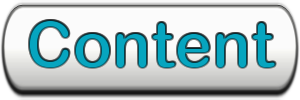
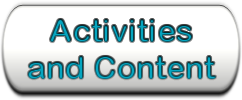
- added a "clear" button for speaking tests - cleaned up the whole "controls" section - I think buttons had stopped moving around! - changed the "Content" button to "Activities and Content" - moved the "Options" button into the Activities area

diff --git a/index.html b/index.html
@@ -291,6 +291,9 @@
 							</div>
 							Phonics
 						</td>
+						<td>
+							<input id="b_options" type="image" src='images/buttons/options_button.png' style="width:100%; display:block; margin-left:auto; margin-right:auto" onmousedown="b_press('b_options2','down','100%')" onmouseup="b_press('b_options2','up','100%')" onmouseout="b_press('b_options2','out','100%')" onclick="optionsDiv('block')"/>
+						</td>
 					</tr>
 				</table>
 
@@ -609,6 +612,7 @@
 						</td>
 					</tr>
 				</table>
+
 				<img id="b_contentOK" onclick="categoryDiv('none')" onmousedown="b_press('b_contentOK','down','7%')" onmouseup="b_press('b_contentOK','up','7%')" onmouseout="b_press('b_contentOK','out','7%')"  src="images/buttons/OK.png" style="width:7%" />
 			</div>
 		</div>
@@ -706,45 +710,48 @@
 		<!-- Controls		 -->
 		<!--_____________ -->
 
-		<table border="0" align="center" style="width:97%;">
-			<tbody valign="baseline">
-				<tr>
-					<td style="width:7.15%;">
-					<input id="b_reset" type="image" src='images/buttons/reset_button.png' style="display:block; width:100%; margin-left:auto; margin-right:auto" onmousedown="b_press('b_reset','down','100%')" onmouseup="b_press('b_reset','up','100%')" onmouseout="b_press('b_reset','out','100%')" onclick="resetScore()"/>
+
+		<table border="0" style="width: 100%">
+			<tbody valign="baseline" align="center">
+				<tr style="height:100px">
+					<td style="width: 0.5%">
+						&nbsp;
 					</td>
-					<td style="width:32.7%;"><img src='images/formatting/1000X597clear_spacer.png' alt="Finished!" style="width:32%" />
+					<td style="width: 7.125%">
+						<img  id="b_reset" src="images/buttons/reset_button.png" style="width:100%; margin-left:auto; margin-right:auto" onmousedown="b_press('b_reset','down','100%')" onmouseup="b_press('b_reset','up','100%')" onmouseout="b_press('b_reset','out','100%')" onclick="resetScore()" />
 					</td>
-					<td style="width:20.3%;">
-
-					<input id="b_start" type="image" src='images/buttons/start_button.png'	style="display:block; width:60.31%; margin-left:auto; margin-right:auto" onmousedown="b_press('b_start','down','60.31%')" onmouseup="b_press('b_start','up','60.31%')" onmouseout="b_press('b_start','out','60.31%')" onclick="activity('start')"/>
-
-
-					<div style="display:block" id="finishedButton">
-						<img src='images/buttons/finished_button.png' alt="Finished!" style="width:100%" />
-					</div>
-
-
-					<div id="yes-no" style=" width:100%; border:gray; display:none; margin-left:auto; margin-right:auto">
-						<input type="image" style="float:left; width:38%;" src='images//buttons/no_button.png' id="noButton"	onmousedown="b_press('noButton','down','38%')" onmouseup="b_press('noButton','up','38%')" onmouseout="b_press('noButton','out','38%')" onclick="activity('no')"/>
-
-						<input id="yesButton" type="image" style="float:right; width:38%" src='images/buttons/yes_button.png' onmousedown="b_press('yesButton','down','38%')" onmouseup="b_press('yesButton','up','38%')" onmouseout="b_press('yesButton','out','38%')" onclick="activity('yes')"/>
-					</div>
-
-
-					<input id="b_replay" type="image" style="width:42.15%; display:none; margin-left:auto; margin-right:auto" src='images/buttons/replay_button.png'	onmousedown="b_press('b_replay','down','42.15%')" onmouseup="b_press('b_replay','up','42.15%')" onmouseout="b_press('b_replay','out','42.15%')" onclick="playVocab()" />
+					<td style="width:19.875%">
+						&nbsp;
 					</td>
-
-					<td> </td>
-
-					<td style="width:14%;">
-					<input id="b_content" type="image" src='images/buttons/content_button.png' style="display:block; width:100%; margin-left:auto; margin-right:auto"	onmousedown="b_press('b_content','down','100%')" onmouseup="b_press('b_content','up','100%')" onmouseout="b_press('b_content','out','100%')"	onclick="categoryDiv('block')" />
+					<td id="controls_central" style="width: 45%">
+						<img id="b_start" style="width: 27.2%" src="images/buttons/start_button.png" onmousedown="b_press('b_start','down','27.2%')" onmouseup="b_press('b_start','up','27.2%')" onmouseout="b_press('b_start','out','27.2%')" onclick="activity('start')" />
+						<img id="finishedButton" src='images/buttons/finished_button.png' alt="Finished!" style="width:45.14%; display: none" />
+						<img id="b_replay" style="width:19%; display:none; " src='images/buttons/replay_button.png'	onmousedown="b_press('b_replay','down','19%')" onmouseup="b_press('b_replay','up','19%')" onmouseout="b_press('b_replay','out','19%')" onclick="playVocab()" />
 					</td>
-					<td style="width:14%;">
-					<input id="b_options" type="image" src='images/buttons/options_button.png' style="width:100%; display:block; margin-left:auto; margin-right:auto" onmousedown="b_press('b_options','down','100%')" onmouseup="b_press('b_options','up','100%')" onmouseout="b_press('b_options','out','100%')" onclick="optionsDiv('block')"/>
+					<td id="no_cell" style="width:15%; display: none">
+						<img style="width:48.3%;" src='images//buttons/no_button.png' id="noButton"	onmousedown="b_press('noButton','down','48.3%')" onmouseup="b_press('noButton','up','48.3%')" onmouseout="b_press('noButton','out','48.3%')" onclick="activity('no')"/>
+					</td>
+					<td id="clear_cell" style="display:none; width:15%">
+						<img id="clearButton" src="images/buttons/clear.png" style="width: 65%" onmousedown="b_press('clearButton','down','65%')" onmouseup="b_press('clearButton','up','65%')" onmouseout="b_press('clearButton','out','65%')" onclick="activity('clear')" />
+					</td>
+					<td id="yes_cell" style="display:none; width:15%">
+						<img id="yesButton" style="width:48.3%" src='images/buttons/yes_button.png' onmousedown="b_press('yesButton','down','48.3%')" onmouseup="b_press('yesButton','up','48.3%')" onmouseout="b_press('yesButton','out','48.3%')" onclick="activity('yes')"/>
+					</td>
+					<td style="width:11.875%">
+						&nbsp;
+					</td>
+					<td style="width: 15.125%">
+						<img id="b_content" src="images/buttons/content_button.png" style="width:100%" onmousedown="b_press('b_content','down','100%')" onmouseup="b_press('b_content','up','100%')" onmouseout="b_press('b_content','out','100%')"	onclick="categoryDiv('block')"/>
+					</td>
+					<td style="0.5%">
+						&nbsp;
 					</td>
 				</tr>
 			</tbody>
 		</table>
+
+
+
 
 		<embed height="50" width="100" src="audio/klaxon_short.mp3" AUTOSTART="false" style="display:none;"> </embed>
 		<embed height="50" width="100" src="audio/clock_ticking_fast.mp3" AUTOSTART="false" AutoRewind="true" style="display:none;"> </embed>

diff --git a/tpf_scripts.js b/tpf_scripts.js
@@ -256,8 +256,11 @@ function newCount() {
 				audCtrls(finAudio, "play");
 				finished = "nearly";
 				setTimeout(function() {
-					document.getElementById("yes-no").style.display = "none";
-					document.getElementById("finishedButton").style.display = "block";
+					document.getElementById("yes_cell").style.display = "none";
+					document.getElementById("no_cell").style.display = "none";
+					document.getElementById("clear_cell").style.display = "none";
+					document.getElementById("controls_central").style.display = "table-cell";
+					document.getElementById("finishedButton").style.display = "inline";
 					document.getElementById("b_replay").style.display = "none";
 					finished = true;
 				}, 5000);
@@ -300,9 +303,12 @@ function resetScore() {
 	document.getElementById("finishedButton").style.display = "none";
 	document.getElementById("b_replay").style.display = "none";
 	document.getElementById("imChoiceDev").style.display = "none";
-	document.getElementById("b_start").style.display = "block";
+	document.getElementById("b_start").style.display = "inline";
+	document.getElementById("controls_central").style.display = "table-cell";
+	document.getElementById("yes_cell").style.display = "none";
+	document.getElementById("no_cell").style.display = "none";
+	document.getElementById("clear_cell").style.display = "none";
 
-	document.getElementById("yes-no").style.display = "none";
 	if (randomCats) {
 		document.getElementById("mainImage").src = "images/vocab/titles/all.jpg";
 	}
@@ -1064,8 +1070,11 @@ function chAnswer(ch) {
 			feedback(ch, answer);
 		} else if (finished == "nearly") {
 			finished = true;
-			document.getElementById("yes-no").style.display = "none";
-			document.getElementById("finishedButton").style.display = "block";
+			document.getElementById("yes_cell").style.display = "none";
+			document.getElementById("no_cell").style.display = "none";
+			document.getElementById("clear_cell").style.display = "none";
+			document.getElementById("finishedButton").style.display = "inline";
+			document.getElementById("controls_central").style.display = "table-cell";
 			document.getElementById("b_replay").style.display = "none";
 			if (answer == RImg) {
 				points++;
@@ -1245,9 +1254,17 @@ function newSyllable(button) {
 		document.getElementById("b_start").style.display = "none";
 		document.getElementById("optDiv").style.display = "none";
 		document.getElementById("contentSelect").style.display = "none";
-		document.getElementById("yes-no").style.display = "block";
+		document.getElementById("yes_cell").style.display = "table-cell";
+		document.getElementById("no_cell").style.display = "table-cell";
+		document.getElementById("clear_cell").style.display = "table-cell";
+		document.getElementById("controls_central").style.display = "none";
+
 	}
 	else if (button == "yes") {
+		points++;
+	}
+	else if (button == "clear") {
+		points++;
 		points++;
 	}
 	else if (button == "no") {
@@ -1508,18 +1525,27 @@ function newImage(button) {
 		document.getElementById("optDiv").style.display = "none";
 		document.getElementById("contentSelect").style.display = "none";
 		if (uMode == "sp_teacher") {
-			document.getElementById("yes-no").style.display = "block";
+			document.getElementById("yes_cell").style.display = "table-cell";
+			document.getElementById("no_cell").style.display = "table-cell";
+			document.getElementById("clear_cell").style.display = "table-cell";
+			document.getElementById("controls_central").style.display = "none";
 		}
 		if (uMode == "r_1word4pic" || uMode == "l_4pic") {
 			document.getElementById("imChoiceDev").style.display = "inline";
 			document.getElementById("mainImage").src = "images/formatting/1000X597clear_spacer.png";
 		}
 		if (uMode == "l_4pic") {
-			document.getElementById("b_replay").style.display = "block";
+			document.getElementById("b_replay").style.display = "inline";
 		}
-	} else if (button == "yes") {
+	}
+	else if (button == "yes") {
 		points++;
-	} else if (button == "no") {
+	}
+	else if (button == "clear") {
+		points++;
+		points++;
+	}
+	else if (button == "no") {
 		var answer = vocArray[pImgInd];
 		feedback(0, answer);
 	}
